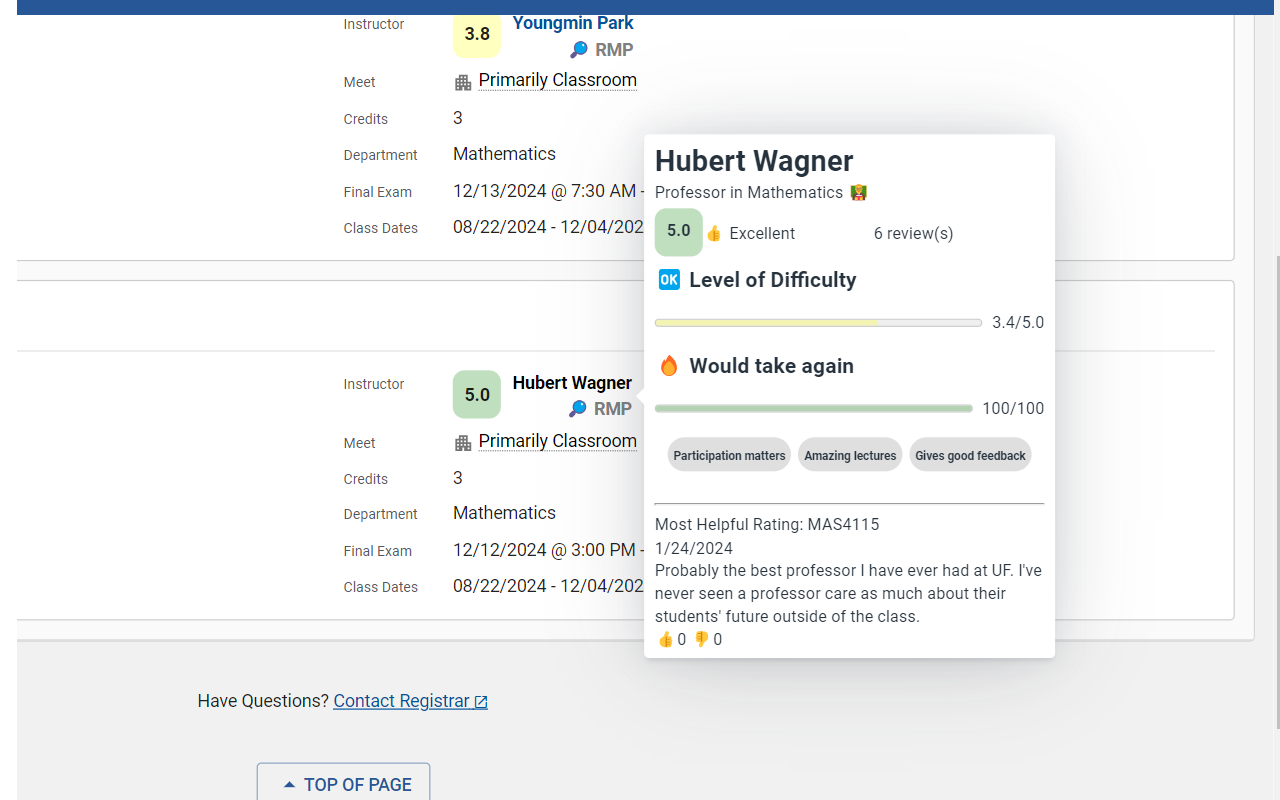
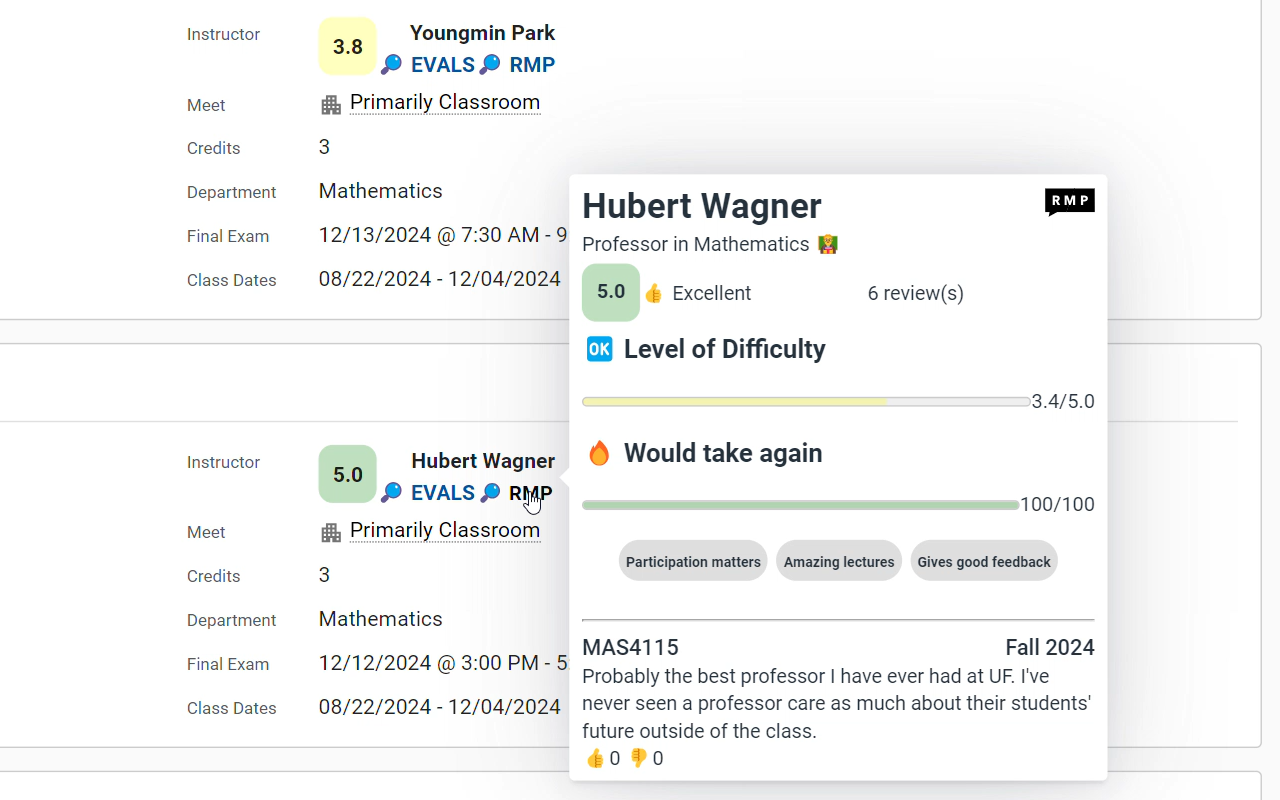
updated readme

diff --git a/README.md b/README.md
@@ -9,11 +9,13 @@
 [**Edge** extension][link-chrome]
 
 
-This extension shows the [Rate My Professors](https://www.ratemyprofessors.com/) ratings of professors while searching for classes on [ONE.UF](https://one.uf.edu/soc/).
+This extension shows the [Rate My Professors](https://www.ratemyprofessors.com/) and [GatorEvals](https://gatorevals.aa.ufl.edu/public-results/) ratings of professors while searching for classes on [ONE.UF](https://one.uf.edu/soc/).
 
-Professors' names will link to their Rate My Professors page (or the search results if not found).
+The respective icons offer a preview of the ratings, with hyperlinks pointing to the respective rating website.
 
-To better find professors while preventing false negatives, this extension utilizes input filtering by mapping certain professor names to their associated nick name (i.e. Shu-jen Huang -> Shu Huang). The search results are then compared against the original input to verify that a false negative result is not shown.
+GraphQL is utilized to make API requests for RMP ratings. To better find professors while preventing false negatives, this extension utilizes input filtering by mapping certain professor names to their associated nick name (i.e. Shu-jen Huang -> Shu Huang). The search results are then compared against the original input to verify that a false negative result is not shown.
+
+GatorEvals data was scraped from the gatorevals website using [this repository](https://github.com/jereme-yang/gatorevals-scraper). GatorEvals data is stored in plain text within the source code, and will be updated periodically as more data is available. I am working on automating this process.
 
 ![Screenshot](images/screenshot1.png)
 ![Screenshot](images/screenshot2.png)
